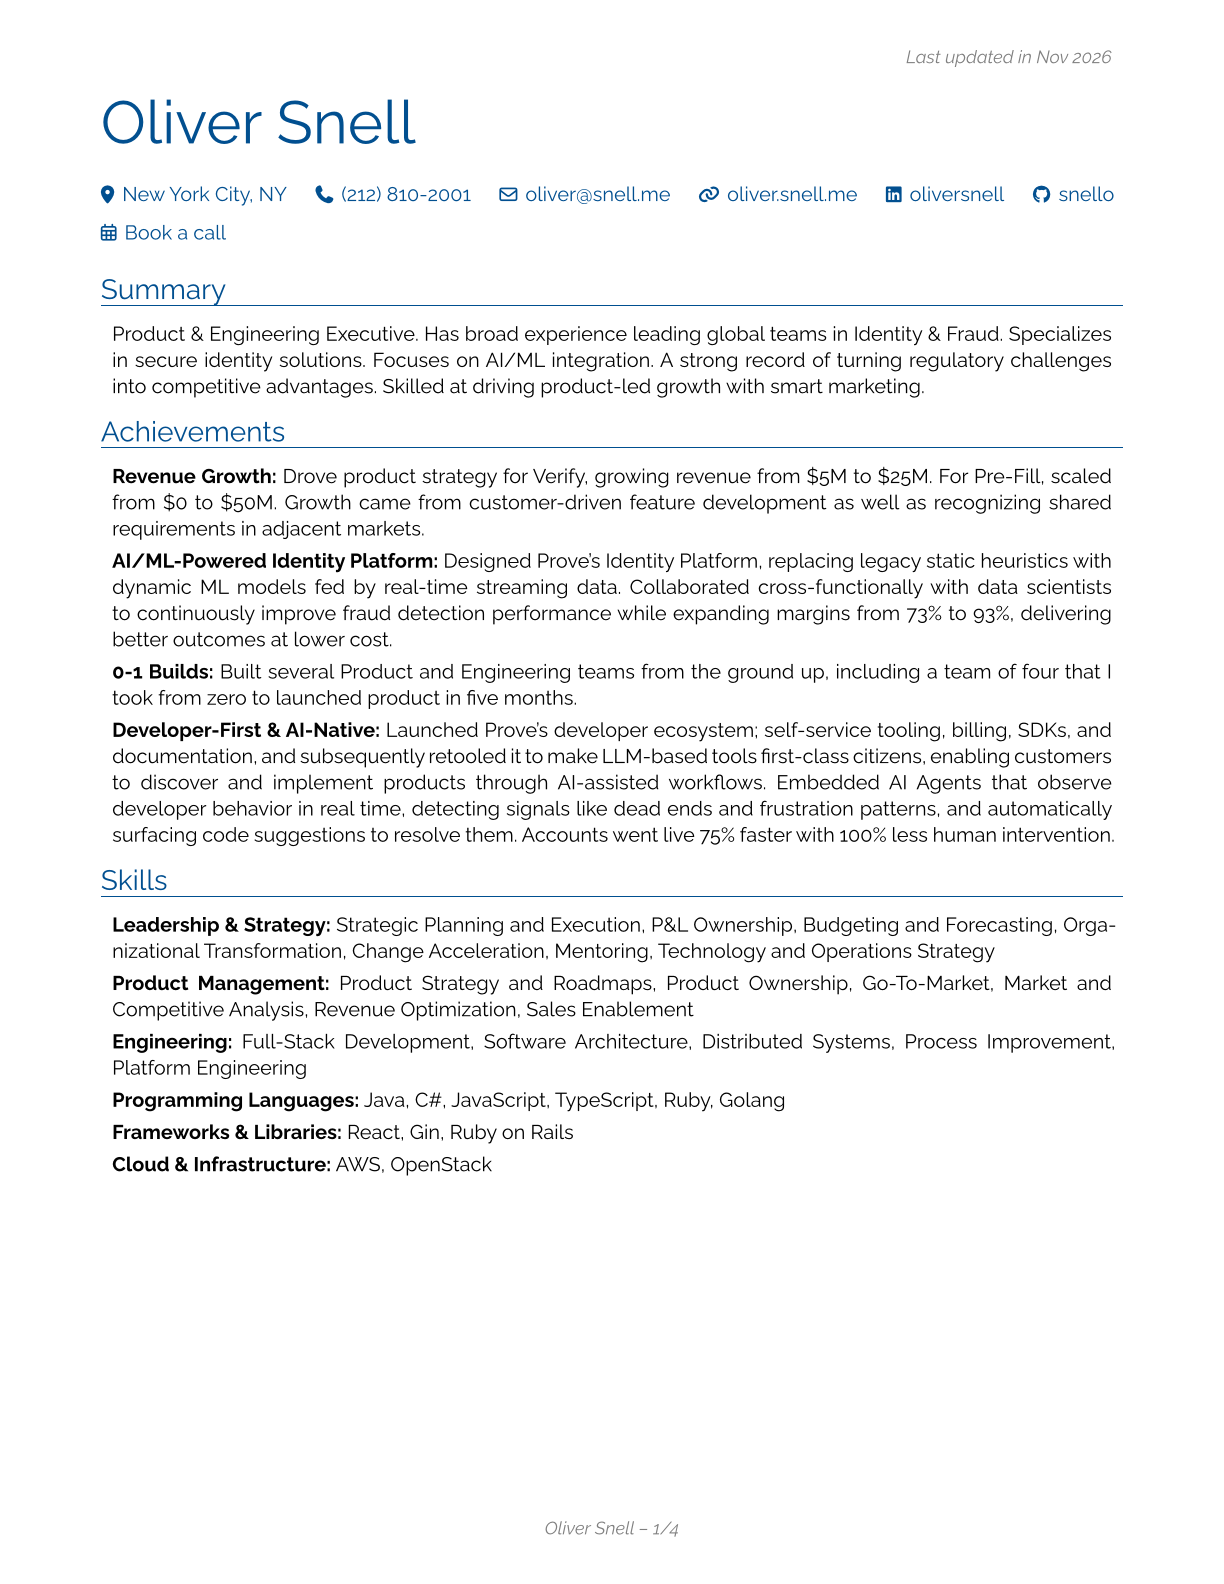
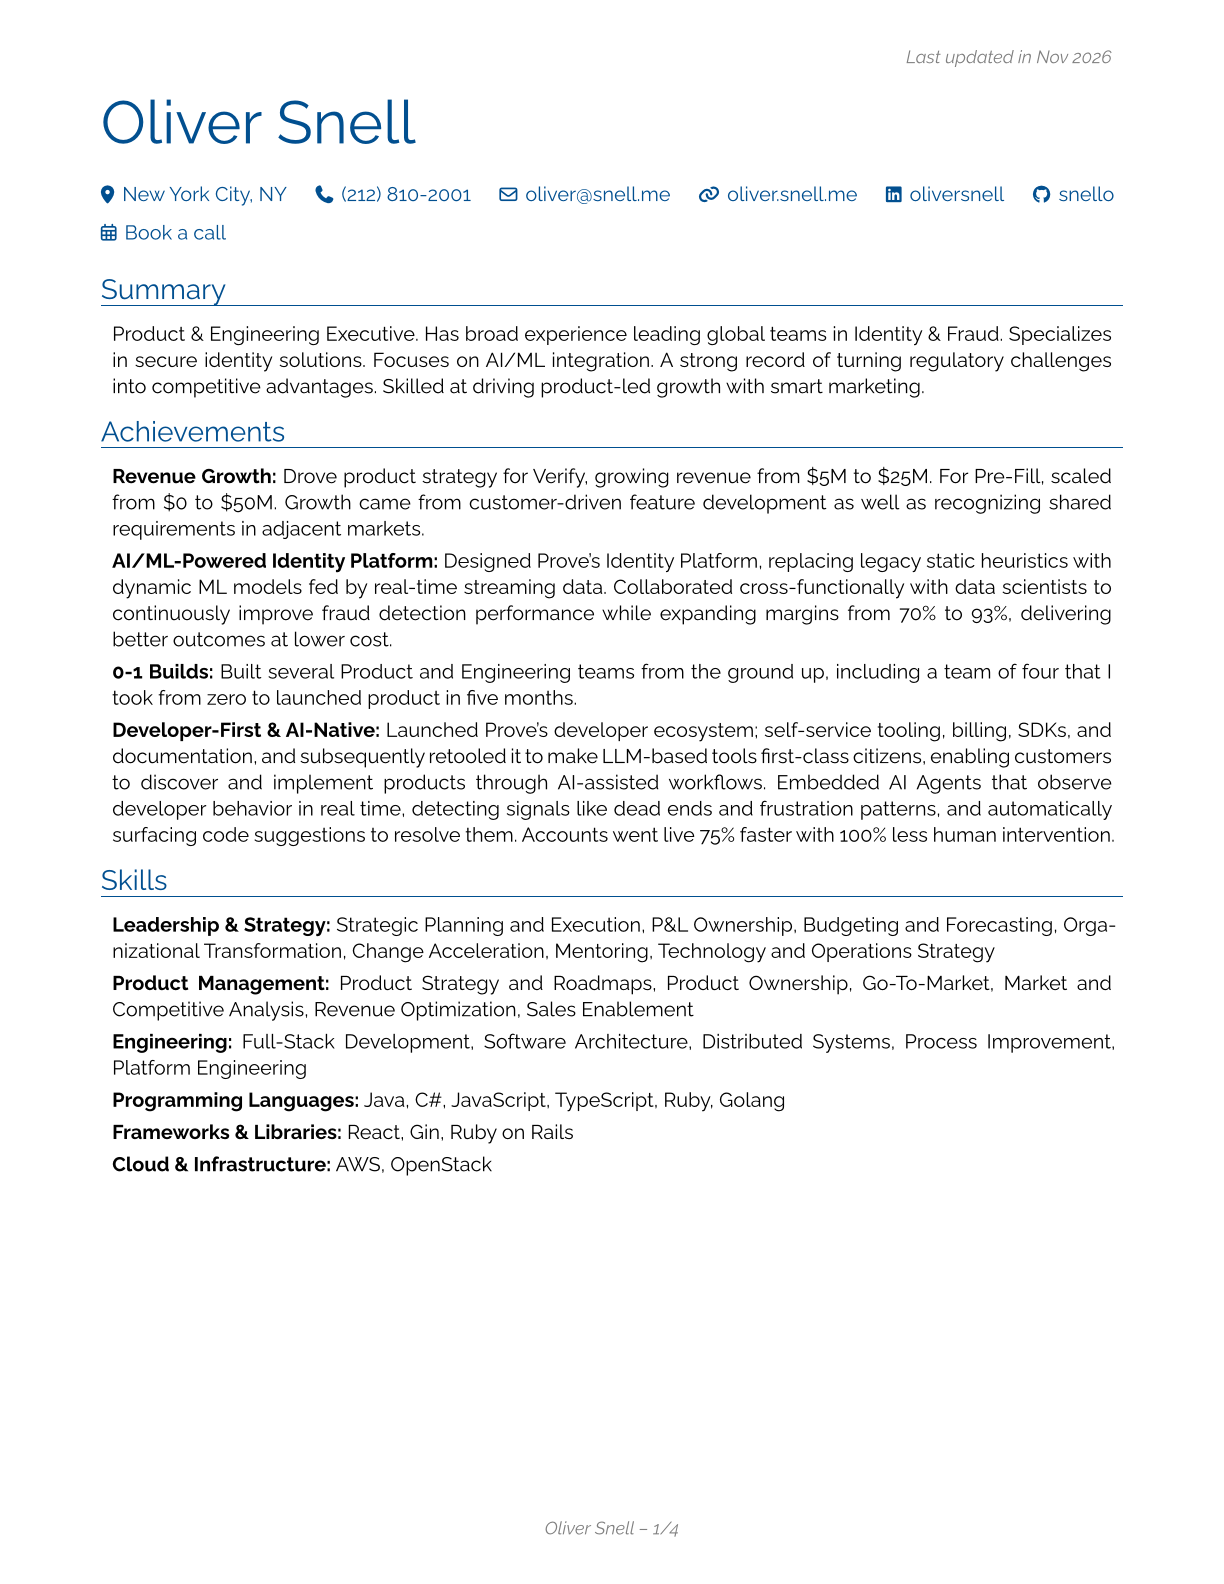
Corrected an inconsistency

Changed region(s): [[0.0931, 0.3712, 0.8382, 0.4021]]

diff --git a/rendercv_output/Oliver_Snell_CV.html b/rendercv_output/Oliver_Snell_CV.html
@@ -52,7 +52,7 @@
         <p>Product &amp; Engineering Executive. Has broad experience leading global teams in Identity &amp; Fraud. Specializes in secure identity solutions. Focuses on AI/ML integration. A strong record of turning regulatory challenges into competitive advantages. Skilled at driving product-led growth with smart marketing.</p>
         <h1>Achievements</h1>
         <p><strong>Revenue Growth:</strong> Drove product strategy for Verify, growing revenue from $5M to $25M. For Pre-Fill, scaled from $0 to $50M. Growth came from customer-driven feature development as well as recognizing shared requirements in adjacent markets.</p>
-        <p><strong>AI/ML-Powered Identity Platform:</strong> Designed Prove's Identity Platform, replacing legacy static heuristics with dynamic ML models fed by real-time streaming data. Collaborated cross-functionally with data scientists to continuously improve fraud detection performance while expanding margins from 73% to 93%, delivering better outcomes at lower cost.</p>
+        <p><strong>AI/ML-Powered Identity Platform:</strong> Designed Prove's Identity Platform, replacing legacy static heuristics with dynamic ML models fed by real-time streaming data. Collaborated cross-functionally with data scientists to continuously improve fraud detection performance while expanding margins from 70% to 93%, delivering better outcomes at lower cost.</p>
         <p><strong>0-1 Builds:</strong> Built several Product and Engineering teams from the ground up, including a team of four that I took from zero to launched product in five months.</p>
         <p><strong>Developer-First &amp; AI-Native:</strong> Launched Prove's developer ecosystem; self-service tooling, billing, SDKs, and documentation, and subsequently retooled it to make LLM-based tools first-class citizens, enabling customers to discover and implement products through AI-assisted workflows. Embedded AI Agents that observe developer behavior in real time, detecting signals like dead ends and frustration patterns, and automatically surfacing code suggestions to resolve them. Accounts went live 75% faster with 100% less human intervention.</p>
         <h1>Skills</h1>

diff --git a/rendercv_output/Oliver_Snell_CV.md b/rendercv_output/Oliver_Snell_CV.md
@@ -14,7 +14,7 @@ Product & Engineering Executive. Has broad experience leading global teams in Id
 # Achievements
 **Revenue Growth:** Drove product strategy for Verify, growing revenue from $5M to $25M. For Pre-Fill, scaled from $0 to $50M. Growth came from customer-driven feature development as well as recognizing shared requirements in adjacent markets.
 
-**AI/ML-Powered Identity Platform:** Designed Prove's Identity Platform, replacing legacy static heuristics with dynamic ML models fed by real-time streaming data. Collaborated cross-functionally with data scientists to continuously improve fraud detection performance while expanding margins from 73% to 93%, delivering better outcomes at lower cost.
+**AI/ML-Powered Identity Platform:** Designed Prove's Identity Platform, replacing legacy static heuristics with dynamic ML models fed by real-time streaming data. Collaborated cross-functionally with data scientists to continuously improve fraud detection performance while expanding margins from 70% to 93%, delivering better outcomes at lower cost.
 
 **0-1 Builds:** Built several Product and Engineering teams from the ground up, including a team of four that I took from zero to launched product in five months.
 
